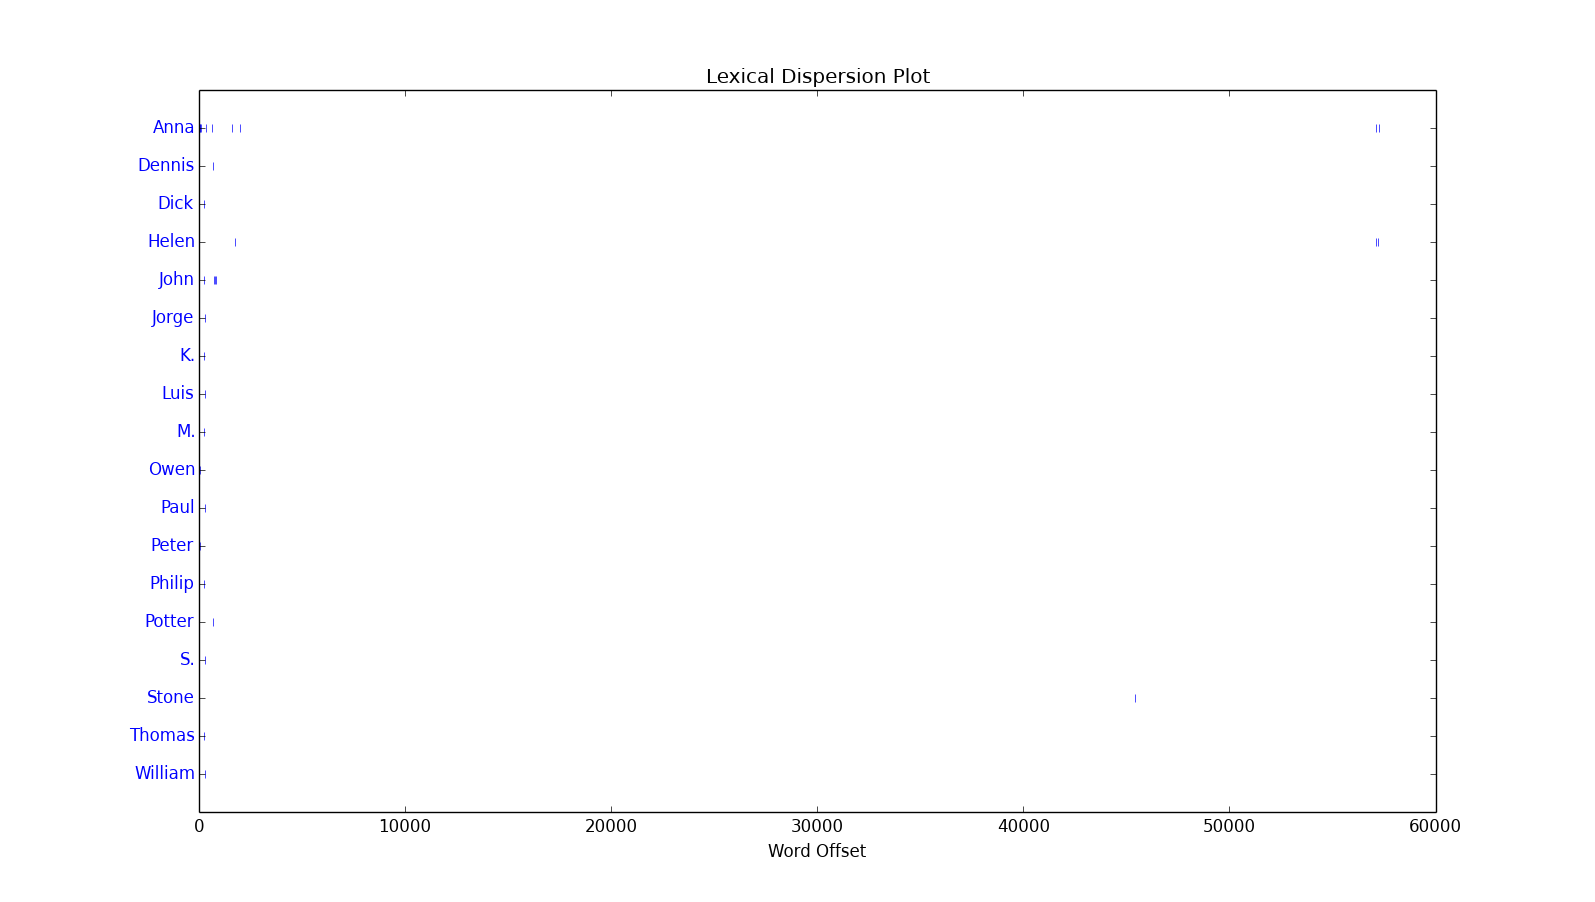
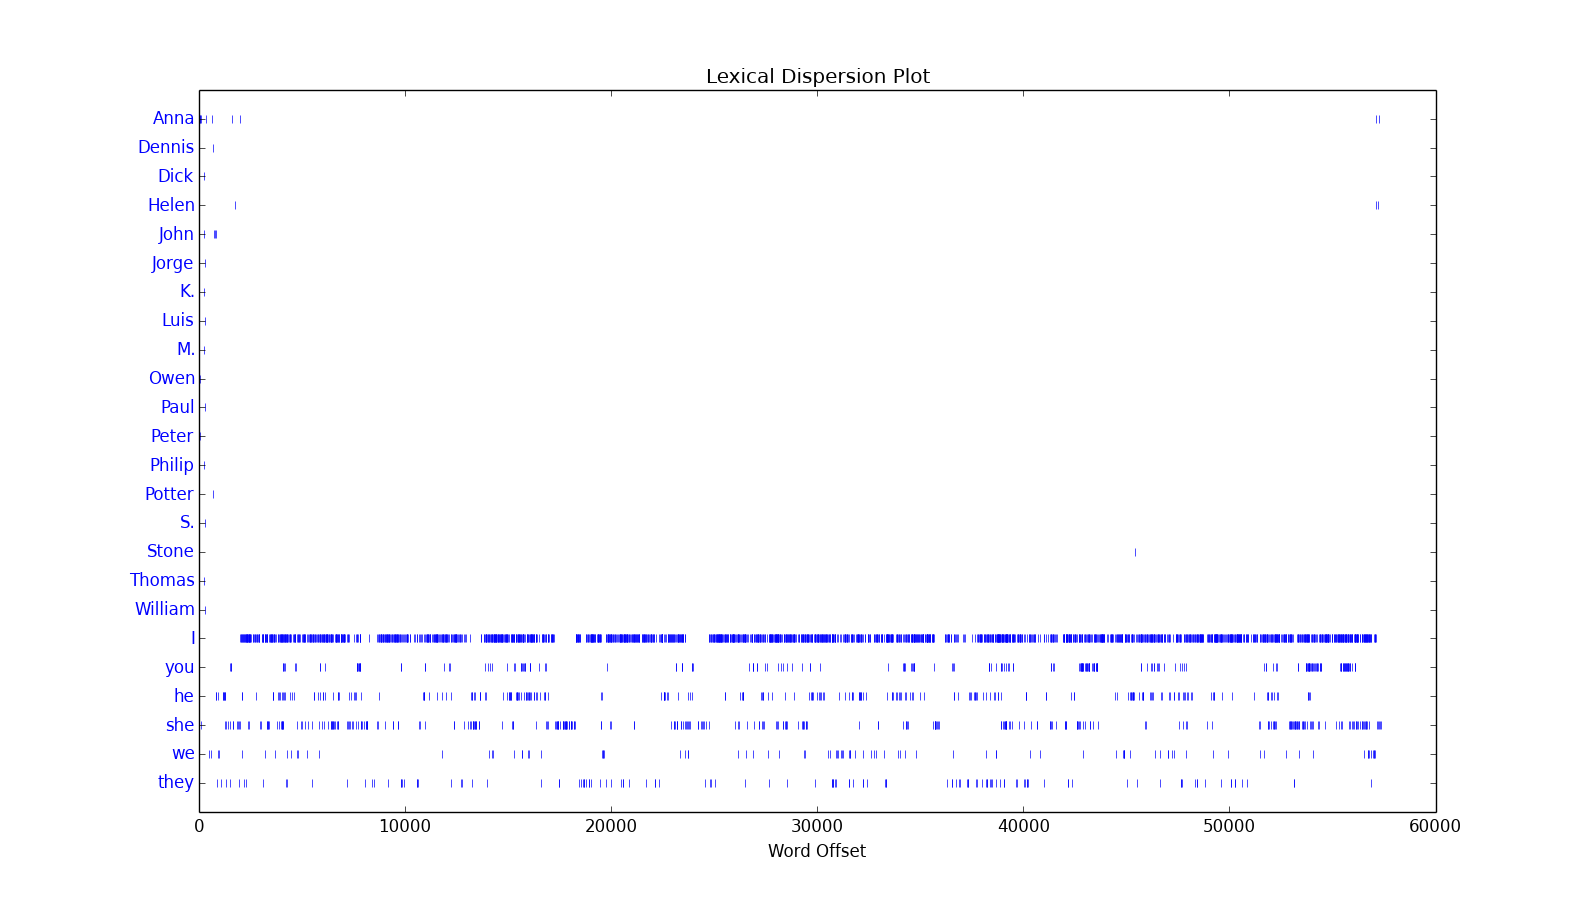
on prend en compte les pronoms dans le graphe des noms

diff --git a/nltkavan/dispersion.py b/nltkavan/dispersion.py
@@ -10,11 +10,11 @@ tokens = nltk.word_tokenize(raw)
 text = nltk.Text(tokens)
 
 ice_locations = ["Atlantic", "Britain", "Cologne", "France", "United", "States"]
-ice_names = ["Anna", "Dennis", "Dick", "Helen", "John", "Jorge", "K.", "Luis", "M.", "Owen", "Paul", "Peter", "Philip", "Potter", "S.", "Stone", "Thomas", "William"]
+ice_names = ["Anna", "Dennis", "Dick", "Helen", "John", "Jorge", "K.", "Luis", "M.", "Owen", "Paul", "Peter", "Philip", "Potter", "S.", "Stone", "Thomas", "William", "I", "you", "he", "she", "we", "they"]
 
 cat_locations = ["China", "Cuba", "England", "Florida", "France", "Germany", "Hollywood", "Hong", "Kong", "India", "Indianapolis", "Japan", "London", "Manhattan", "Newport", "Newton", "N.Y.", "New", "York", "Puerto", "Rhode", "Russia", "San", "Lorenzo", "Santa", "Tokyo"]
 
-cat_names = ["Albert", "Schweitzer", "Barbara", "Hutton", "Betsy", "Ross", "Lionel", "Boyd", "Harrison", "C.", "Conners", "Castle", "Cedar", "Charles", "Atlas", "David", "McCabe", "Felix", "Frank", "Franklin", "H.", "Lowe", "Crosby", "Harry", "Truman", "I", "Jack", "Johnson","Julian", "Castle", "Lewis", "Marvin", "Breed", "Faust", "Pefko", "Fata", "Morgana", "Newton", "Hoenikker", "Philip", "Robinson", "Sandra", "Stanley"]
+cat_names = ["Albert", "Schweitzer", "Barbara", "Hutton", "Betsy", "Ross", "Lionel", "Boyd", "Harrison", "C.", "Conners", "Castle", "Cedar", "Charles", "Atlas", "David", "McCabe", "Felix", "Frank", "Franklin", "H.", "Lowe", "Crosby", "Harry", "Truman", "Jack", "Johnson","Julian", "Castle", "Lewis", "Marvin", "Breed", "Faust", "Pefko", "Fata", "Morgana", "Newton", "Hoenikker", "Philip", "Robinson", "Sandra", "Stanley", "I", "you", "he", "she", "we", "they"]
 
 
-text.dispersion_plot(cat_locations)
+text.dispersion_plot(cat_names)
